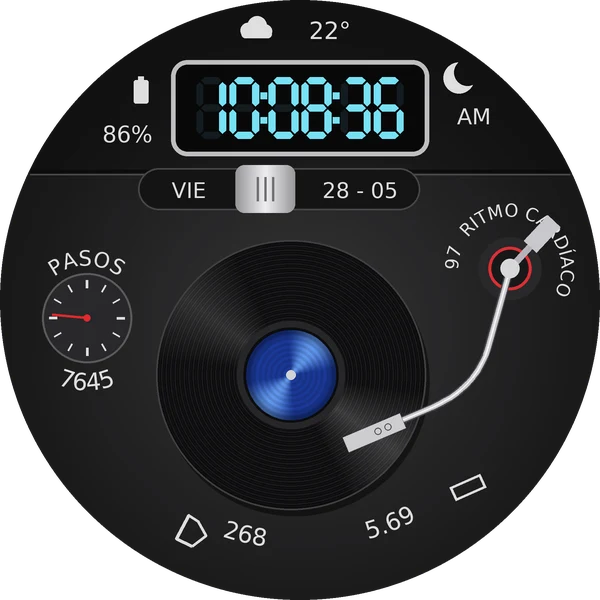
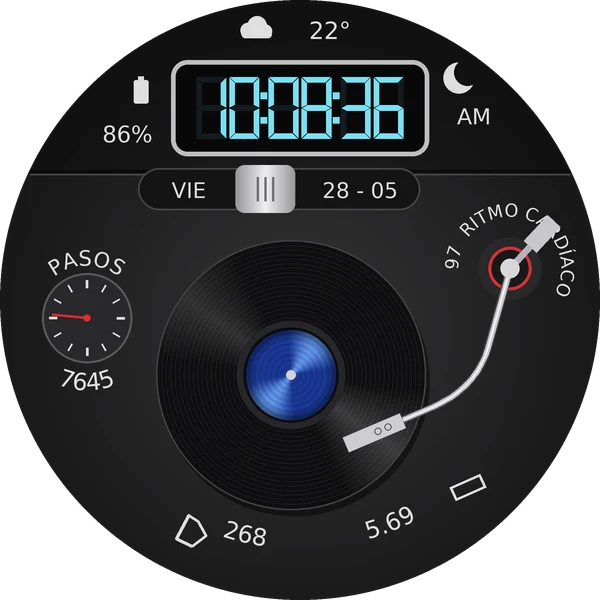
Vinilo: números de la hora cuadrados como las pantallas LCD de la foto (segmentos con puntas en diagonal que cierran las esquinas)
Claude-Session: https://claude.ai/code/session_01RTdv2VrACuR4VFWJLA57hx

Changed region(s): [[0.36, 0.12, 0.69, 0.24]]

diff --git a/android/esferas-de-reloj/vinilo/src/main/java/cl/carlospnauto/esfera/FaceService.kt b/android/esferas-de-reloj/vinilo/src/main/java/cl/carlospnauto/esfera/FaceService.kt
@@ -423,39 +423,35 @@ class VinylRenderer(
         '6' to "afgedc", '7' to "abc", '8' to "abcdefg", '9' to "abcdfg",
     )
 
-    /** Un número de 7 segmentos finos (como la foto), con los segmentos apagados apenas visibles */
+    /**
+     * Un número de 7 segmentos como las pantallas de cristal líquido de la foto: segmentos con las
+     * puntas cortadas en diagonal que se juntan en las esquinas (números cuadrados) y los apagados
+     * apenas visibles
+     */
     private fun seg(canvas: Canvas, ch: Char, x: Float, y: Float, w: Float, h: Float, on: Int, ghost: Int) {
-        val t = w * 0.23f
-        val g = t * 0.22f
+        val t = w * 0.18f
+        val gp = t * 0.10f
         val m = y + h / 2
-        val l = x + t / 2
-        val rr = x + w - t / 2
-        val top = y + t / 2
-        val bot = y + h - t / 2
+        val ht = t / 2
         val lit = SEGS[ch].orEmpty()
-        val h2 = t / 2
-        // Segmentos con puntas en bisel (hexágonos finos), como las pantallas de cristal líquido de la foto
-        fun hor(k: Char, x0: Float, x1: Float, yy: Float) {
+        fun poly(k: Char, vararg p: Float) {
             fill.color = if (k in lit) on else ghost
             path.reset()
-            path.moveTo(x0, yy); path.lineTo(x0 + h2, yy - h2); path.lineTo(x1 - h2, yy - h2)
-            path.lineTo(x1, yy); path.lineTo(x1 - h2, yy + h2); path.lineTo(x0 + h2, yy + h2); path.close()
+            path.moveTo(p[0], p[1])
+            var i = 2
+            while (i < p.size) { path.lineTo(p[i], p[i + 1]); i += 2 }
+            path.close()
             canvas.drawPath(path, fill)
         }
-        fun ver(k: Char, xx: Float, y0: Float, y1: Float) {
-            fill.color = if (k in lit) on else ghost
-            path.reset()
-            path.moveTo(xx, y0); path.lineTo(xx + h2, y0 + h2); path.lineTo(xx + h2, y1 - h2)
-            path.lineTo(xx, y1); path.lineTo(xx - h2, y1 - h2); path.lineTo(xx - h2, y0 + h2); path.close()
-            canvas.drawPath(path, fill)
-        }
-        hor('a', l + g, rr - g, top)
-        ver('b', rr, top + g, m - g)
-        ver('c', rr, m + g, bot - g)
-        hor('d', l + g, rr - g, bot)
-        ver('e', l, m + g, bot - g)
-        ver('f', l, top + g, m - g)
-        hor('g', l + g, rr - g, m)
+        val r = x + w
+        val b = y + h
+        poly('a', x + gp, y, r - gp, y, r - t - gp, y + t, x + t + gp, y + t)
+        poly('d', x + gp, b, r - gp, b, r - t - gp, b - t, x + t + gp, b - t)
+        poly('f', x, y + gp, x + t, y + t + gp, x + t, m - ht - gp, x, m - gp)
+        poly('b', r, y + gp, r - t, y + t + gp, r - t, m - ht - gp, r, m - gp)
+        poly('e', x, m + gp, x + t, m + ht + gp, x + t, b - t - gp, x, b - gp)
+        poly('c', r, m + gp, r - t, m + ht + gp, r - t, b - t - gp, r, b - gp)
+        poly('g', x + gp, m, x + t + gp, m - ht, r - t - gp, m - ht, r - gp, m, r - t - gp, m + ht, x + t + gp, m + ht)
     }
 
     // ===== Piezas =====
